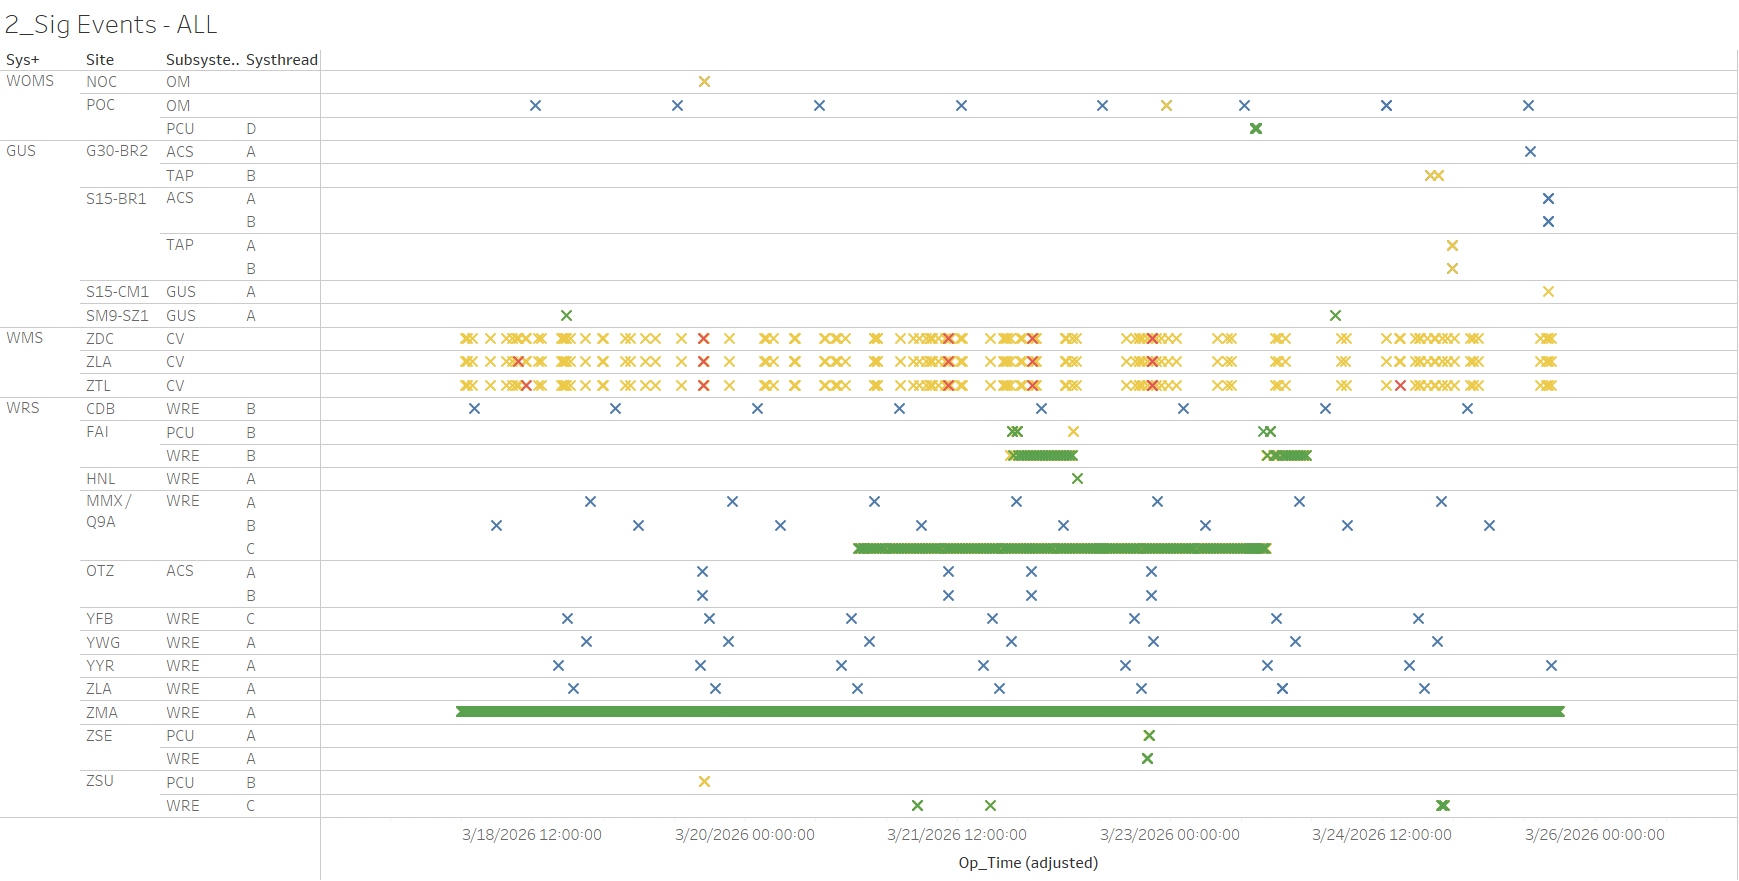
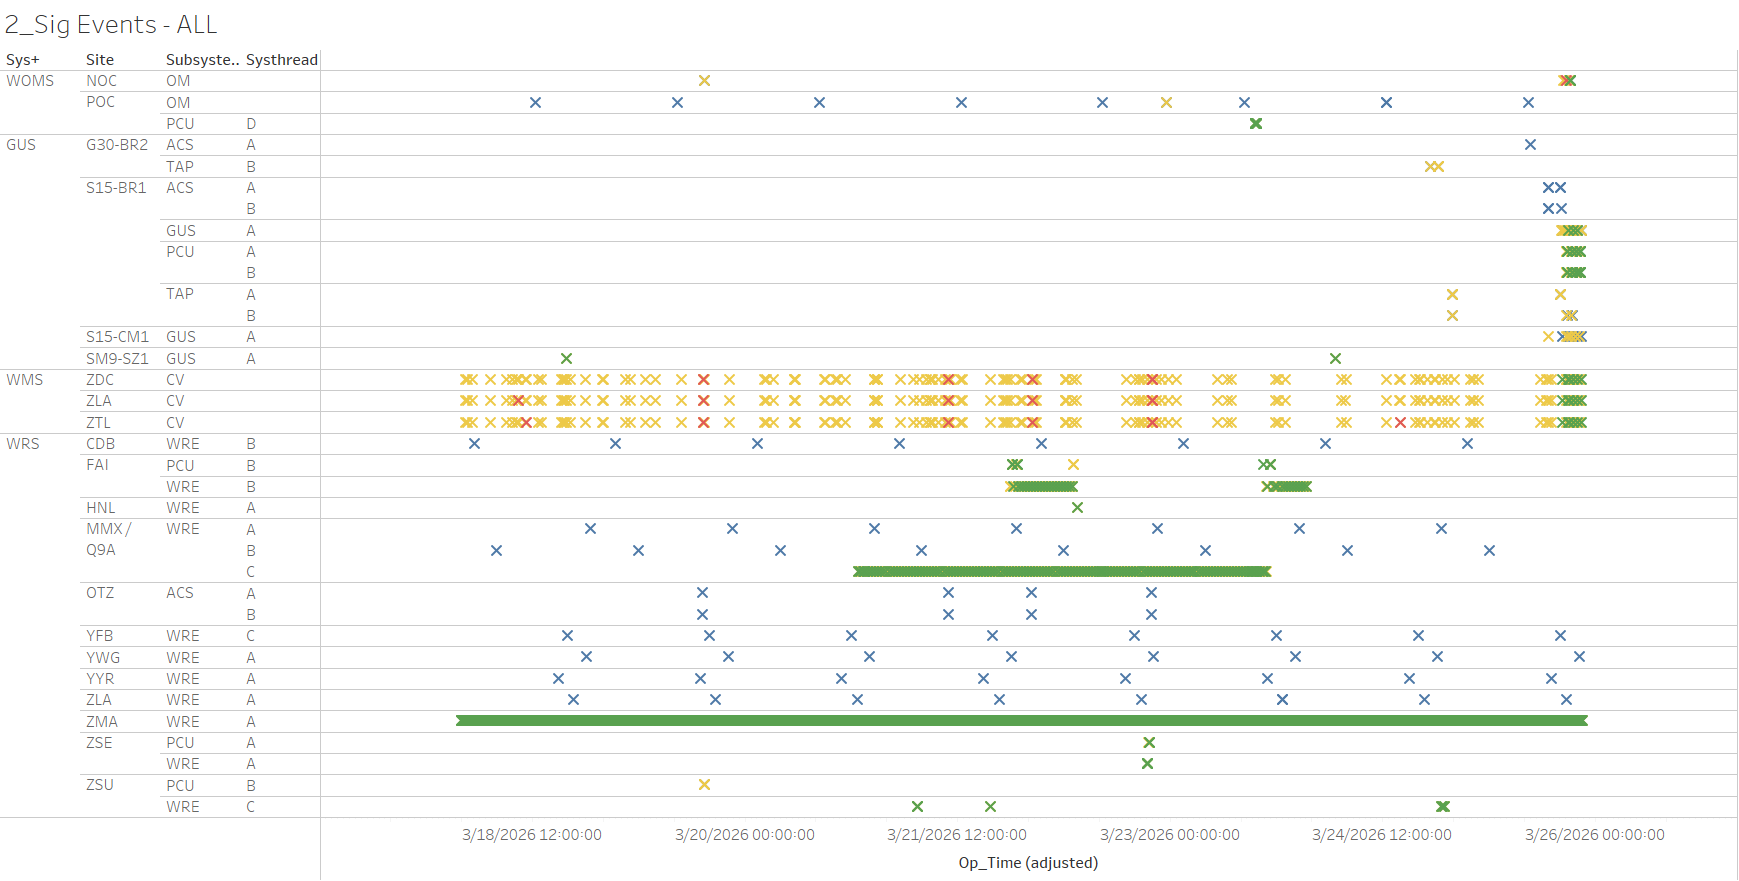
added BR1 SSM upgrade complete

diff --git a/sysmon/index.html b/sysmon/index.html
@@ -80,7 +80,24 @@
                                                                         Download W7.442 SW to BR1 GUS</li>
                                                                   <li>3/25 16:03 - <strong>SSM-WAAS-065</strong> - BR1
                                                                         GUS to Maintenance and Shutdown for hardware
-                                                                        upgrade...</li>
+                                                                        upgrade; returned to Maintenance Mode at 3/25
+                                                                        18:22; Control Powered OFF/ON at 3/25 19:11 --
+                                                                        engineers planning to leave in Maintenance while
+                                                                        they trace cables onsite...
+                                                                        <ul>
+                                                                              <li>3/25 19:11 - BR1 GUS Faulted with SE
+                                                                                    13 Freq Std Fail -- Freq Std in bad
+                                                                                    state, had to be manually power
+                                                                                    cycled since the Freq Std is not
+                                                                                    included in the Control Power...
+                                                                              </li>
+                                                                              <li>3/25 21:35 - BR1 GUS returned to
+                                                                                    Maintenance after cycling power on
+                                                                                    Freq Std and Control Power;
+                                                                                    <strong>restored to Backup at 3/25
+                                                                                          21:46</strong></li>
+                                                                        </ul>
+                                                                  </li>
                                                             </ul>
 
 
@@ -125,7 +142,7 @@
                                                                                                             </tr>
                                                                                                       </thead>
                                                                                                       <tbody>
-                                                                                                            <tr>
+                                                                                                            <tr class="table-success">
                                                                                                                   <td>3/24/2026
                                                                                                                   </td>
                                                                                                                   <td>BR1
@@ -730,11 +747,13 @@
                                                                   <li>3/25 17:21 - Multiple comm impacts at ZLA
                                                                         affecting both Ring 1 / Ring 2 networks;
                                                                         <strong>lines cleared at 3/25 17:41 (~1112
-                                                                              seconds)</strong></li>
+                                                                              seconds)</strong>
+                                                                  </li>
                                                                   <li>3/25 17:44 - Multiple comm impacts at ZLA
                                                                         affecting both Ring 1 / Ring 2 networks;
                                                                         <strong>lines cleared at 3/25 17:51 (~215
-                                                                              seconds)</strong></li>
+                                                                              seconds)</strong>
+                                                                  </li>
                                                             </ul>
 
 
